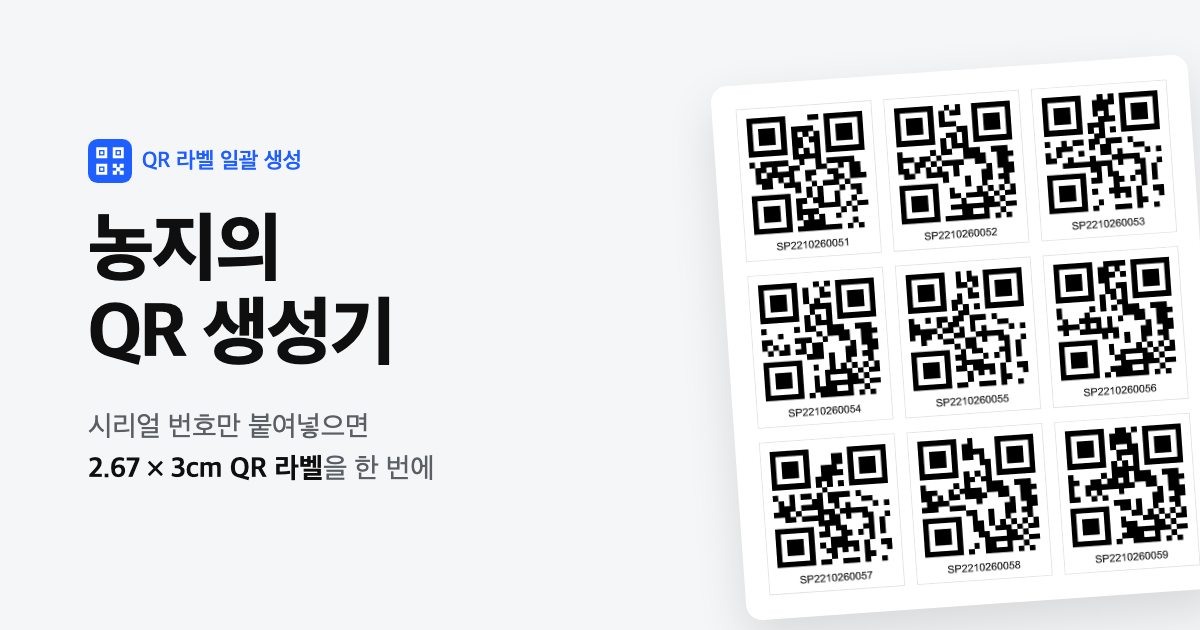
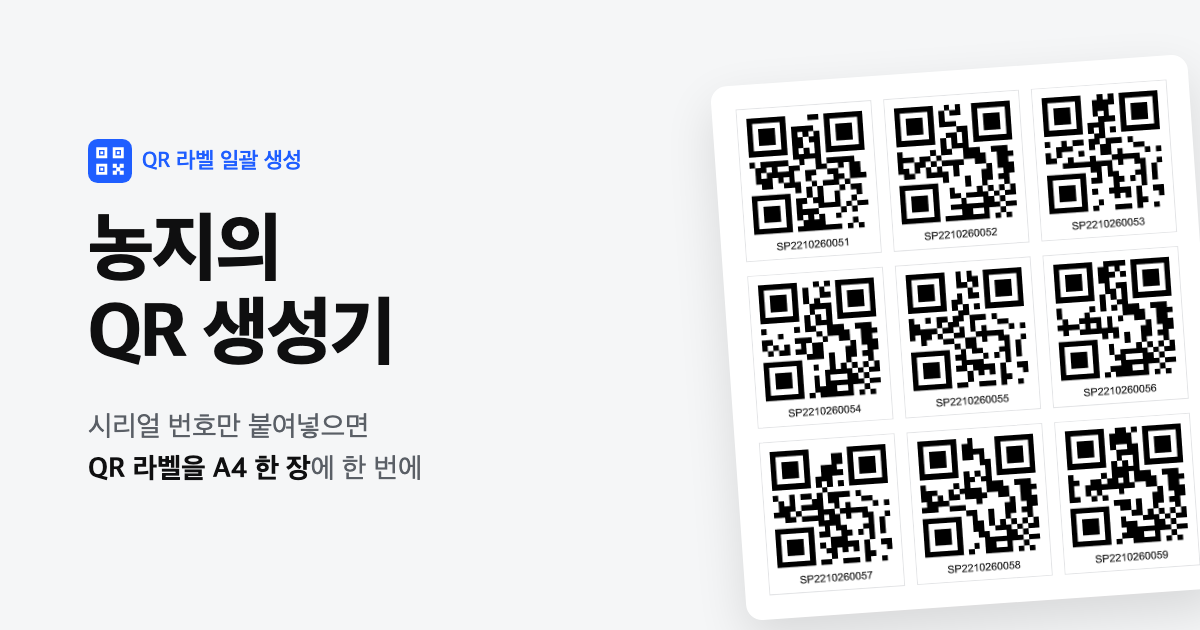
A4 한 줄 10개 배치로 변경, 구분선 제거, 한 줄 개수 선택 추가

Changed region(s): [[0.0617, 0.7238, 0.37, 0.7841]]

diff --git a/index.html b/index.html
@@ -4,14 +4,14 @@
 <meta charset="utf-8">
 <meta name="viewport" content="width=device-width, initial-scale=1">
 <title>농지의 QR 생성기</title>
-<meta name="description" content="시리얼 번호만 붙여넣으면 2.67 × 3cm QR 라벨을 한 번에. A4 인쇄용 PDF와 PNG 이미지로 바로 받을 수 있어요.">
+<meta name="description" content="시리얼 번호만 붙여넣으면 QR 라벨을 한 번에. A4 한 장에 한 줄 10개씩, 인쇄용 PDF와 PNG 이미지로 바로 받을 수 있어요.">
 <link rel="icon" href="favicon.svg" type="image/svg+xml">
 <link rel="apple-touch-icon" href="apple-touch-icon.png">
 <meta name="theme-color" content="#1f5eff">
 <meta property="og:type" content="website">
 <meta property="og:site_name" content="농지의 QR 생성기">
 <meta property="og:title" content="농지의 QR 생성기">
-<meta property="og:description" content="시리얼 번호만 붙여넣으면 2.67 × 3cm QR 라벨을 한 번에. A4 인쇄용 PDF와 PNG 이미지로 바로 받을 수 있어요.">
+<meta property="og:description" content="시리얼 번호만 붙여넣으면 QR 라벨을 한 번에. A4 한 장에 한 줄 10개씩, 인쇄용 PDF와 PNG 이미지로 바로 받을 수 있어요.">
 <meta property="og:url" content="https://jinhong-lee.github.io/qr-label-maker/">
 <meta property="og:image" content="https://jinhong-lee.github.io/qr-label-maker/og-image.png">
 <meta property="og:image:width" content="1200">
@@ -19,7 +19,7 @@
 <meta property="og:locale" content="ko_KR">
 <meta name="twitter:card" content="summary_large_image">
 <meta name="twitter:title" content="농지의 QR 생성기">
-<meta name="twitter:description" content="시리얼 번호만 붙여넣으면 2.67 × 3cm QR 라벨을 한 번에. A4 인쇄용 PDF와 PNG 이미지로 바로 받을 수 있어요.">
+<meta name="twitter:description" content="시리얼 번호만 붙여넣으면 QR 라벨을 한 번에. A4 한 장에 한 줄 10개씩, 인쇄용 PDF와 PNG 이미지로 바로 받을 수 있어요.">
 <meta name="twitter:image" content="https://jinhong-lee.github.io/qr-label-maker/og-image.png">
 <style>
   :root {
@@ -47,7 +47,10 @@
   .msg.warn { background: var(--warn-bg); color: var(--warn); }
   .msg.err { background: var(--err-bg); color: var(--err); }
   .opts { display: flex; gap: 16px; flex-wrap: wrap; margin-top: 16px; font-size: 13px; }
-  .opts label { display: flex; align-items: center; gap: 6px; cursor: pointer; }
+  .opts { align-items: center; }
+  .opts label { display: flex; align-items: center; gap: 6px; }
+  .opts select { font: inherit; padding: 6px 8px; border: 1px solid var(--line); border-radius: 8px; background: #fff; cursor: pointer; }
+  .size-info { color: var(--sub); font-size: 12px; }
   .actions { display: flex; flex-direction: column; gap: 8px; margin-top: 20px; }
   button { font: inherit; font-weight: 600; border-radius: 8px; padding: 12px 16px; cursor: pointer; border: 1px solid transparent; }
   .primary { background: var(--accent); color: #fff; }
@@ -68,7 +71,7 @@
 <body>
 <div class="wrap">
   <h1>농지의 QR 생성기</h1>
-  <p class="lead">시리얼 번호를 붙여넣으면 2.67 × 3cm 라벨(QR + 번호)을 한 번에 만듭니다.</p>
+  <p class="lead">시리얼 번호를 붙여넣으면 QR + 번호 라벨을 A4 한 장에 맞춰 한 번에 만듭니다.</p>
 
   <div class="grid">
     <div class="card">
@@ -80,7 +83,12 @@
       <div id="msgs"></div>
 
       <div class="opts">
-        <label><input type="checkbox" id="cutline" checked> 재단선 표시</label>
+        <label>한 줄에
+          <select id="cols">
+            <option>8</option><option>9</option><option selected>10</option><option>11</option><option>12</option>
+          </select>
+          개</label>
+        <span class="size-info" id="sizeInfo"></span>
       </div>
 
       <div class="actions">
@@ -93,7 +101,7 @@
     <div class="card">
       <div class="preview-head">
         <h2>미리보기</h2>
-        <span>실제 인쇄 크기: 가로 2.67cm × 세로 3cm</span>
+        <span id="previewSize"></span>
       </div>
       <div id="preview"><div class="empty">왼쪽에 시리얼 번호를 붙여넣으면 여기에 라벨이 표시됩니다.</div></div>
     </div>
@@ -104,24 +112,30 @@
 <script src="lib/jspdf.umd.min.js"></script>
 <script src="lib/jszip.min.js"></script>
 <script>
-// ===== 라벨 규격 (mm) =====
-const LABEL_W = 26.7, LABEL_H = 30;
-const PAD = 1.2;                      // 라벨 안쪽 여백
-const QR_SIZE = LABEL_W - PAD * 2;    // 24.3mm 정사각
-const TEXT_TOP = PAD + QR_SIZE;       // 텍스트 영역 시작
-const DPI = 600;                      // 출력 해상도
+// ===== 라벨 규격 (mm) — 한 줄 개수에 맞춰 자동 계산, 비율은 2.67:3 유지 =====
+const RATIO = 30 / 26.7;
+const A4_W = 210, A4_H = 297, MARGIN = 5;   // 프린터 인쇄 불가 영역 고려한 여백
+const DPI = 600;
 const PX = mm => Math.round(mm / 25.4 * DPI);
+let COLS, ROWS, PER_PAGE, LABEL_W, LABEL_H, PAD, QR_SIZE, TEXT_TOP, OFFSET_X, OFFSET_Y;
 
-// ===== A4 배치 (mm) =====
-const A4_W = 210, A4_H = 297, MARGIN = 10, GAP = 2;
-const COLS = Math.floor((A4_W - MARGIN * 2 + GAP) / (LABEL_W + GAP));
-const ROWS = Math.floor((A4_H - MARGIN * 2 + GAP) / (LABEL_H + GAP));
-const PER_PAGE = COLS * ROWS;
-// 배치 전체를 가운데 정렬
-const OFFSET_X = (A4_W - (COLS * LABEL_W + (COLS - 1) * GAP)) / 2;
-const OFFSET_Y = (A4_H - (ROWS * LABEL_H + (ROWS - 1) * GAP)) / 2;
+function layout() {
+  COLS = Number($('cols').value);
+  LABEL_W = (A4_W - MARGIN * 2) / COLS;           // 라벨끼리 붙여서 배치(구분선 없음)
+  LABEL_H = LABEL_W * RATIO;
+  ROWS = Math.floor((A4_H - MARGIN * 2) / LABEL_H);
+  PER_PAGE = COLS * ROWS;
+  PAD = LABEL_W * 0.045;                           // 안쪽 여백 — 이웃 라벨과의 흰 간격 역할
+  QR_SIZE = LABEL_W - PAD * 2;
+  TEXT_TOP = PAD + QR_SIZE;
+  OFFSET_X = (A4_W - COLS * LABEL_W) / 2;
+  OFFSET_Y = (A4_H - ROWS * LABEL_H) / 2;
+  const cm = v => (v / 10).toFixed(2).replace(/0$/, '');
+  $('sizeInfo').textContent = `라벨 ${cm(LABEL_W)} × ${cm(LABEL_H)}cm · 한 장 ${PER_PAGE}개`;
+  $('previewSize').textContent = `실제 인쇄 크기: 가로 ${cm(LABEL_W)}cm × 세로 ${cm(LABEL_H)}cm`;
+}
 
-const MAX_MODULES = 57; // 이보다 촘촘하면 2.4cm에서 스캔이 어려움(모듈 0.43mm 미만)
+const MIN_MODULE_MM = 0.33; // QR 한 칸이 이보다 작으면 휴대폰 스캔이 어려움
 
 const $ = id => document.getElementById(id);
 let serials = [];
@@ -162,10 +176,10 @@ function drawLabel(text) {
   // 텍스트 — 라벨 폭에 맞게 자동 축소
   const zoneTop = PX(TEXT_TOP), zoneH = c.height - zoneTop;
   const maxW = c.width - PX(PAD) * 2;
-  let fs = PX(2.6);
+  let fs = PX(LABEL_H * 0.087);
   const font = s => `${s}px Arial, Helvetica, "Apple SD Gothic Neo", "Malgun Gothic", sans-serif`;
   ctx.font = font(fs);
-  while (ctx.measureText(text).width > maxW && fs > PX(1.2)) { fs -= 2; ctx.font = font(fs); }
+  while (ctx.measureText(text).width > maxW && fs > PX(LABEL_H * 0.04)) { fs -= 2; ctx.font = font(fs); }
   ctx.fillStyle = '#222';
   ctx.textAlign = 'center'; ctx.textBaseline = 'middle';
   ctx.fillText(text, c.width / 2, zoneTop + zoneH / 2);
@@ -174,6 +188,7 @@ function drawLabel(text) {
 }
 
 function render() {
+  layout();
   serials = parse($('input').value);
   const count = serials.length;
   $('count').textContent = count;
@@ -198,11 +213,11 @@ function render() {
       const { canvas, modules, tooSmall } = drawLabel(s);
       canvas.title = s;
       box.appendChild(canvas);
-      if (modules > MAX_MODULES) dense.push(s);
+      if (QR_SIZE / modules < MIN_MODULE_MM) dense.push(s);
       if (tooSmall) longText.push(s);
     });
     pv.appendChild(box);
-    if (dense.length) msgs.push(['err', `내용이 너무 길어 QR이 촘촘한 번호가 ${dense.length}개 있습니다. 2.67cm 크기에서는 스캔이 안 될 수 있어요.`]);
+    if (dense.length) msgs.push(['err', `내용이 너무 길어 QR이 촘촘한 번호가 ${dense.length}개 있습니다. 이 라벨 크기에서는 스캔이 안 될 수 있어요.`]);
     if (longText.length) msgs.push(['warn', `번호가 길어 글자가 라벨 폭을 넘는 항목이 ${longText.length}개 있습니다.`]);
   }
   $('msgs').innerHTML = msgs.map(([t, m]) => `<div class="msg ${t}">${m}</div>`).join('');
@@ -226,14 +241,12 @@ $('btnPdf').addEventListener('click', async () => {
   try {
     const { jsPDF } = window.jspdf;
     const pdf = new jsPDF({ unit: 'mm', format: 'a4', orientation: 'portrait' });
-    const cut = $('cutline').checked;
     serials.forEach((s, i) => {
       const k = i % PER_PAGE;
       if (i > 0 && k === 0) pdf.addPage();
-      const x = OFFSET_X + (k % COLS) * (LABEL_W + GAP);
-      const y = OFFSET_Y + Math.floor(k / COLS) * (LABEL_H + GAP);
+      const x = OFFSET_X + (k % COLS) * LABEL_W;
+      const y = OFFSET_Y + Math.floor(k / COLS) * LABEL_H;
       pdf.addImage(drawLabel(s).canvas.toDataURL('image/png'), 'PNG', x, y, LABEL_W, LABEL_H, undefined, 'FAST');
-      if (cut) { pdf.setDrawColor(190); pdf.setLineWidth(0.1); pdf.rect(x, y, LABEL_W, LABEL_H); }
     });
     pdf.save(`QR라벨_${serials.length}개_${stamp()}.pdf`);
   } catch (e) {
@@ -268,6 +281,7 @@ $('btnZip').addEventListener('click', async () => {
 });
 
 let t;
+$('cols').addEventListener('change', render);
 $('input').addEventListener('input', () => { clearTimeout(t); t = setTimeout(render, 250); });
 render();
 </script>

diff --git a/README.md b/README.md
@@ -1,18 +1,19 @@
 # 농지의 QR 생성기
 
-시리얼 번호 목록을 붙여넣으면 2.67 × 3cm 라벨(QR + 번호)을 한 번에 만들어 줍니다.
+시리얼 번호 목록을 붙여넣으면 QR + 번호 라벨을 A4 한 장에 맞춰 한 번에 만들어 줍니다.
 서버 없이 브라우저 안에서만 동작합니다. 외부 API를 호출하지 않고, 인터넷이 끊겨도 쓸 수 있습니다.
 
 ## 사용법
 1. 시리얼 번호를 한 줄에 하나씩 붙여넣습니다. 엑셀 열을 그대로 복사해도 됩니다.
-2. **인쇄용 PDF 받기**를 누르면 A4 한 장에 48개(6열 × 8행)가 배치된 PDF가 생성됩니다.
+2. **인쇄용 PDF 받기**를 누르면 A4 한 장에 120개(한 줄 10개 × 12줄, 구분선 없음)가 배치된 PDF가 생성됩니다. 한 줄 개수는 8~12개 중에서 고를 수 있습니다.
    인쇄할 때 배율은 반드시 **실제 크기(100%)**로 설정하세요.
 3. 개별 이미지가 필요하면 **PNG 이미지 묶음(ZIP) 받기**를 누릅니다. 파일명은 `시리얼번호.png`입니다.
 
 ## 규격
-- 라벨: 26.7 × 30mm, 600dpi(631 × 709px)
-- QR: 24.3mm 정사각형, 오류 정정 레벨 M(15%)
-- A4 배치: 라벨 간격 2mm, 페이지 가운데 정렬, 재단선 표시 여부 선택 가능
+- 라벨 크기: 한 줄 개수에 맞춰 자동 계산하며, 가로:세로 비율은 2.67:3을 유지합니다.
+  한 줄 10개일 때 2.0 × 2.25cm입니다.
+- A4 배치: 상하좌우 여백 5mm, 라벨끼리 붙여 배치합니다(구분선 없음). 라벨 안쪽 흰 여백이 간격 역할을 합니다.
+- 해상도 600dpi, 오류 정정 레벨 M(15%)
 
 ## GitHub Pages 배포 (무료)
 1. GitHub에서 새 저장소를 **Public**으로 만듭니다.
